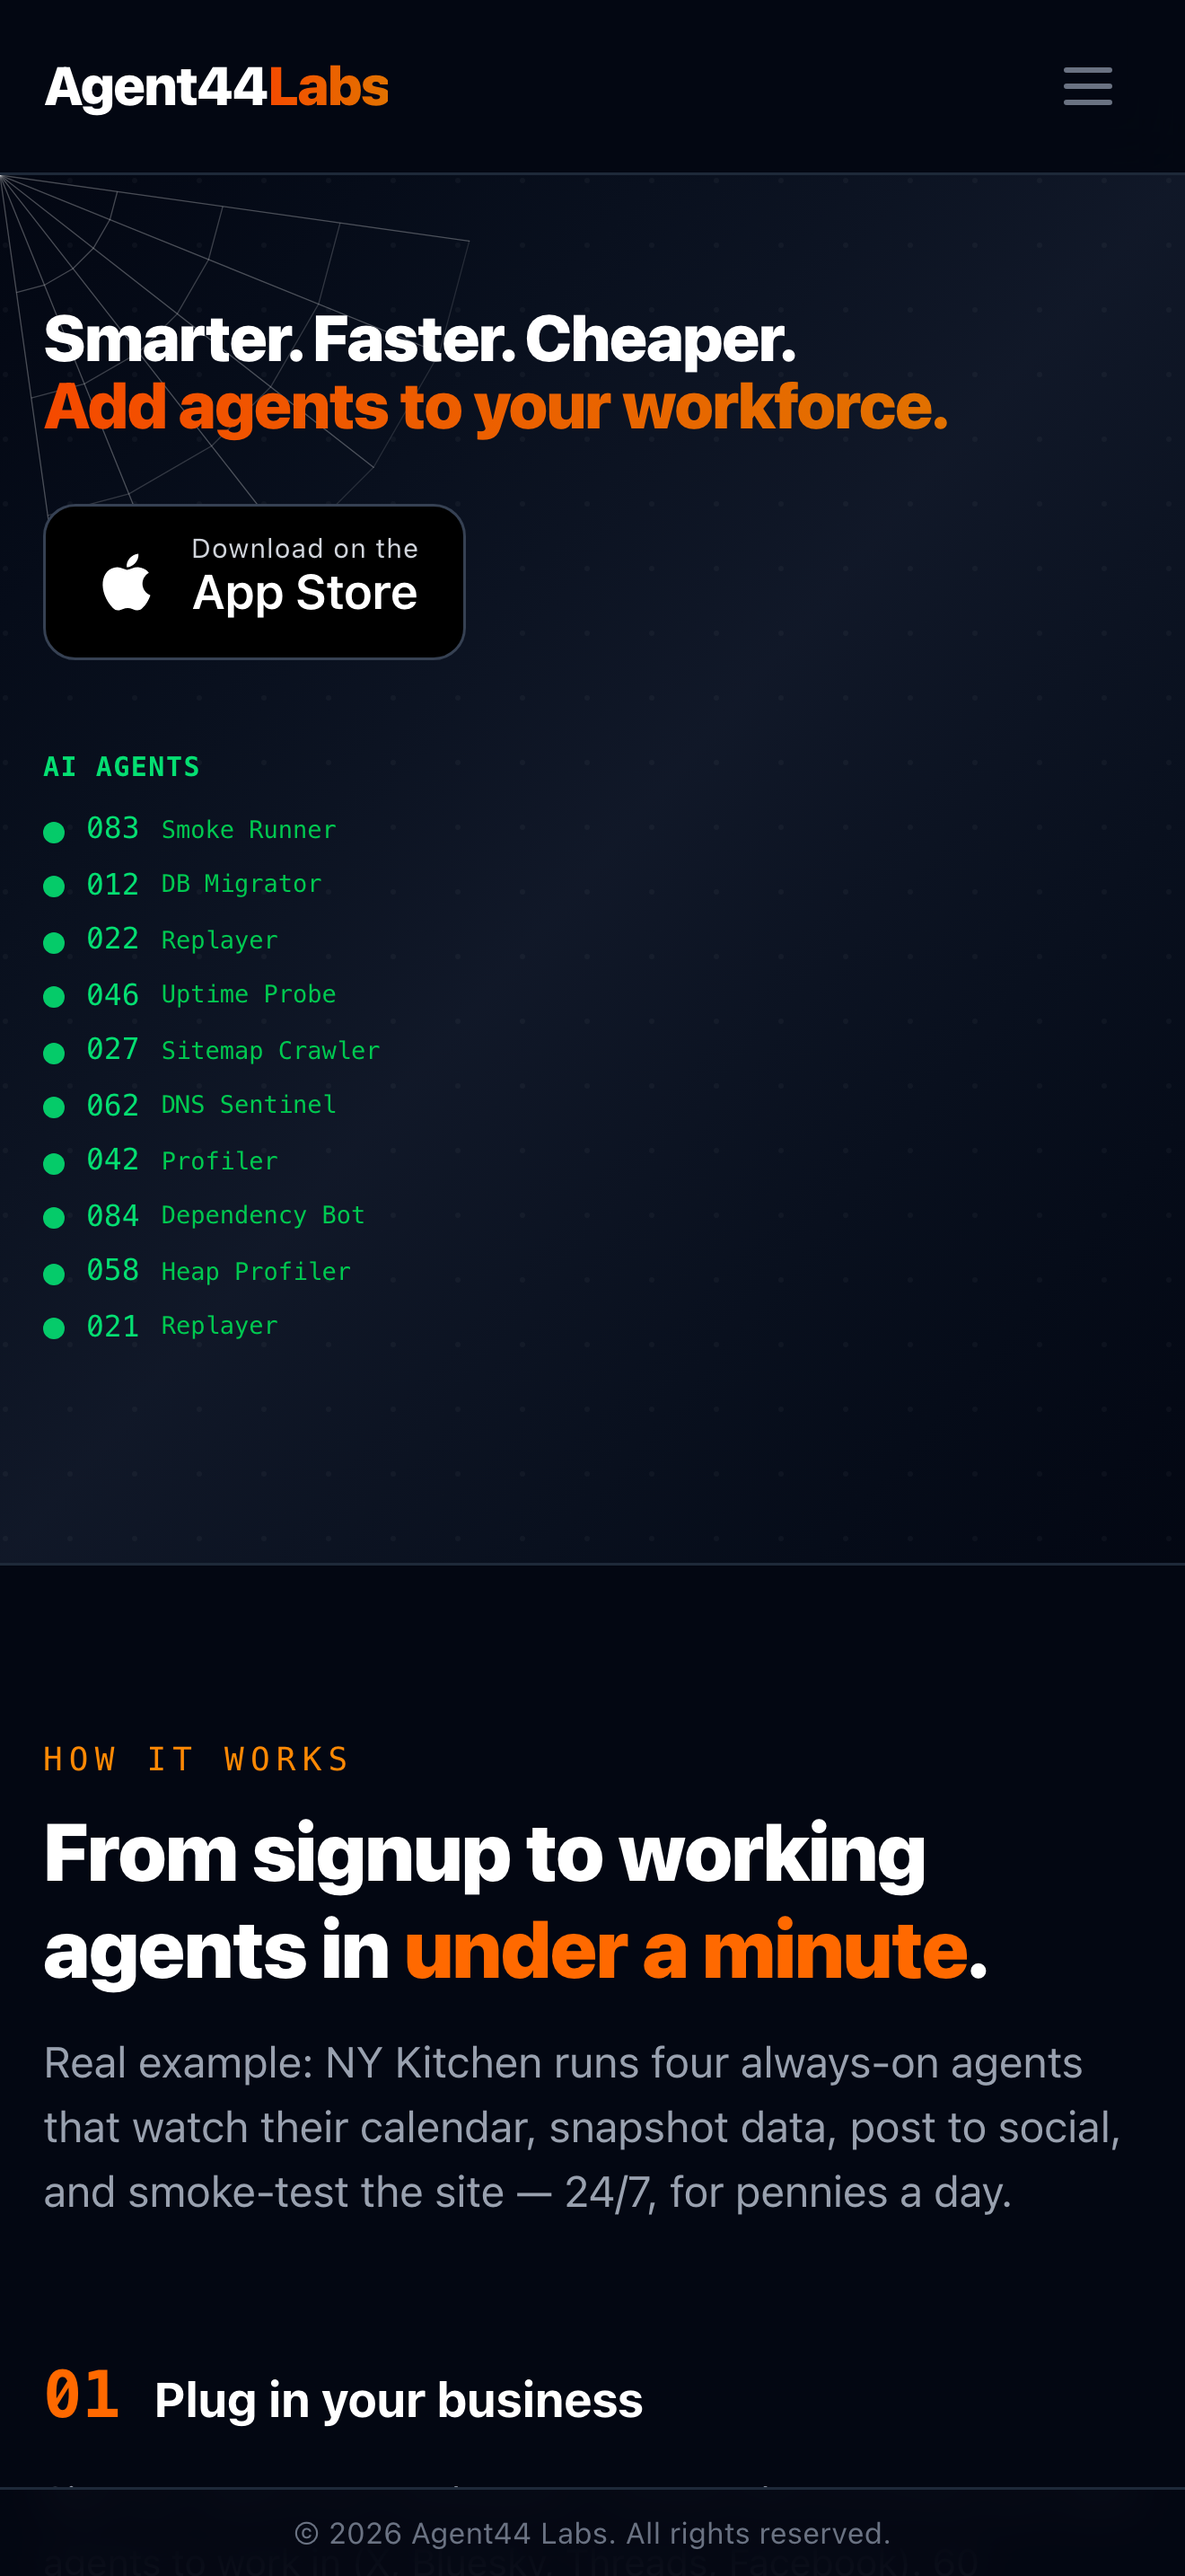
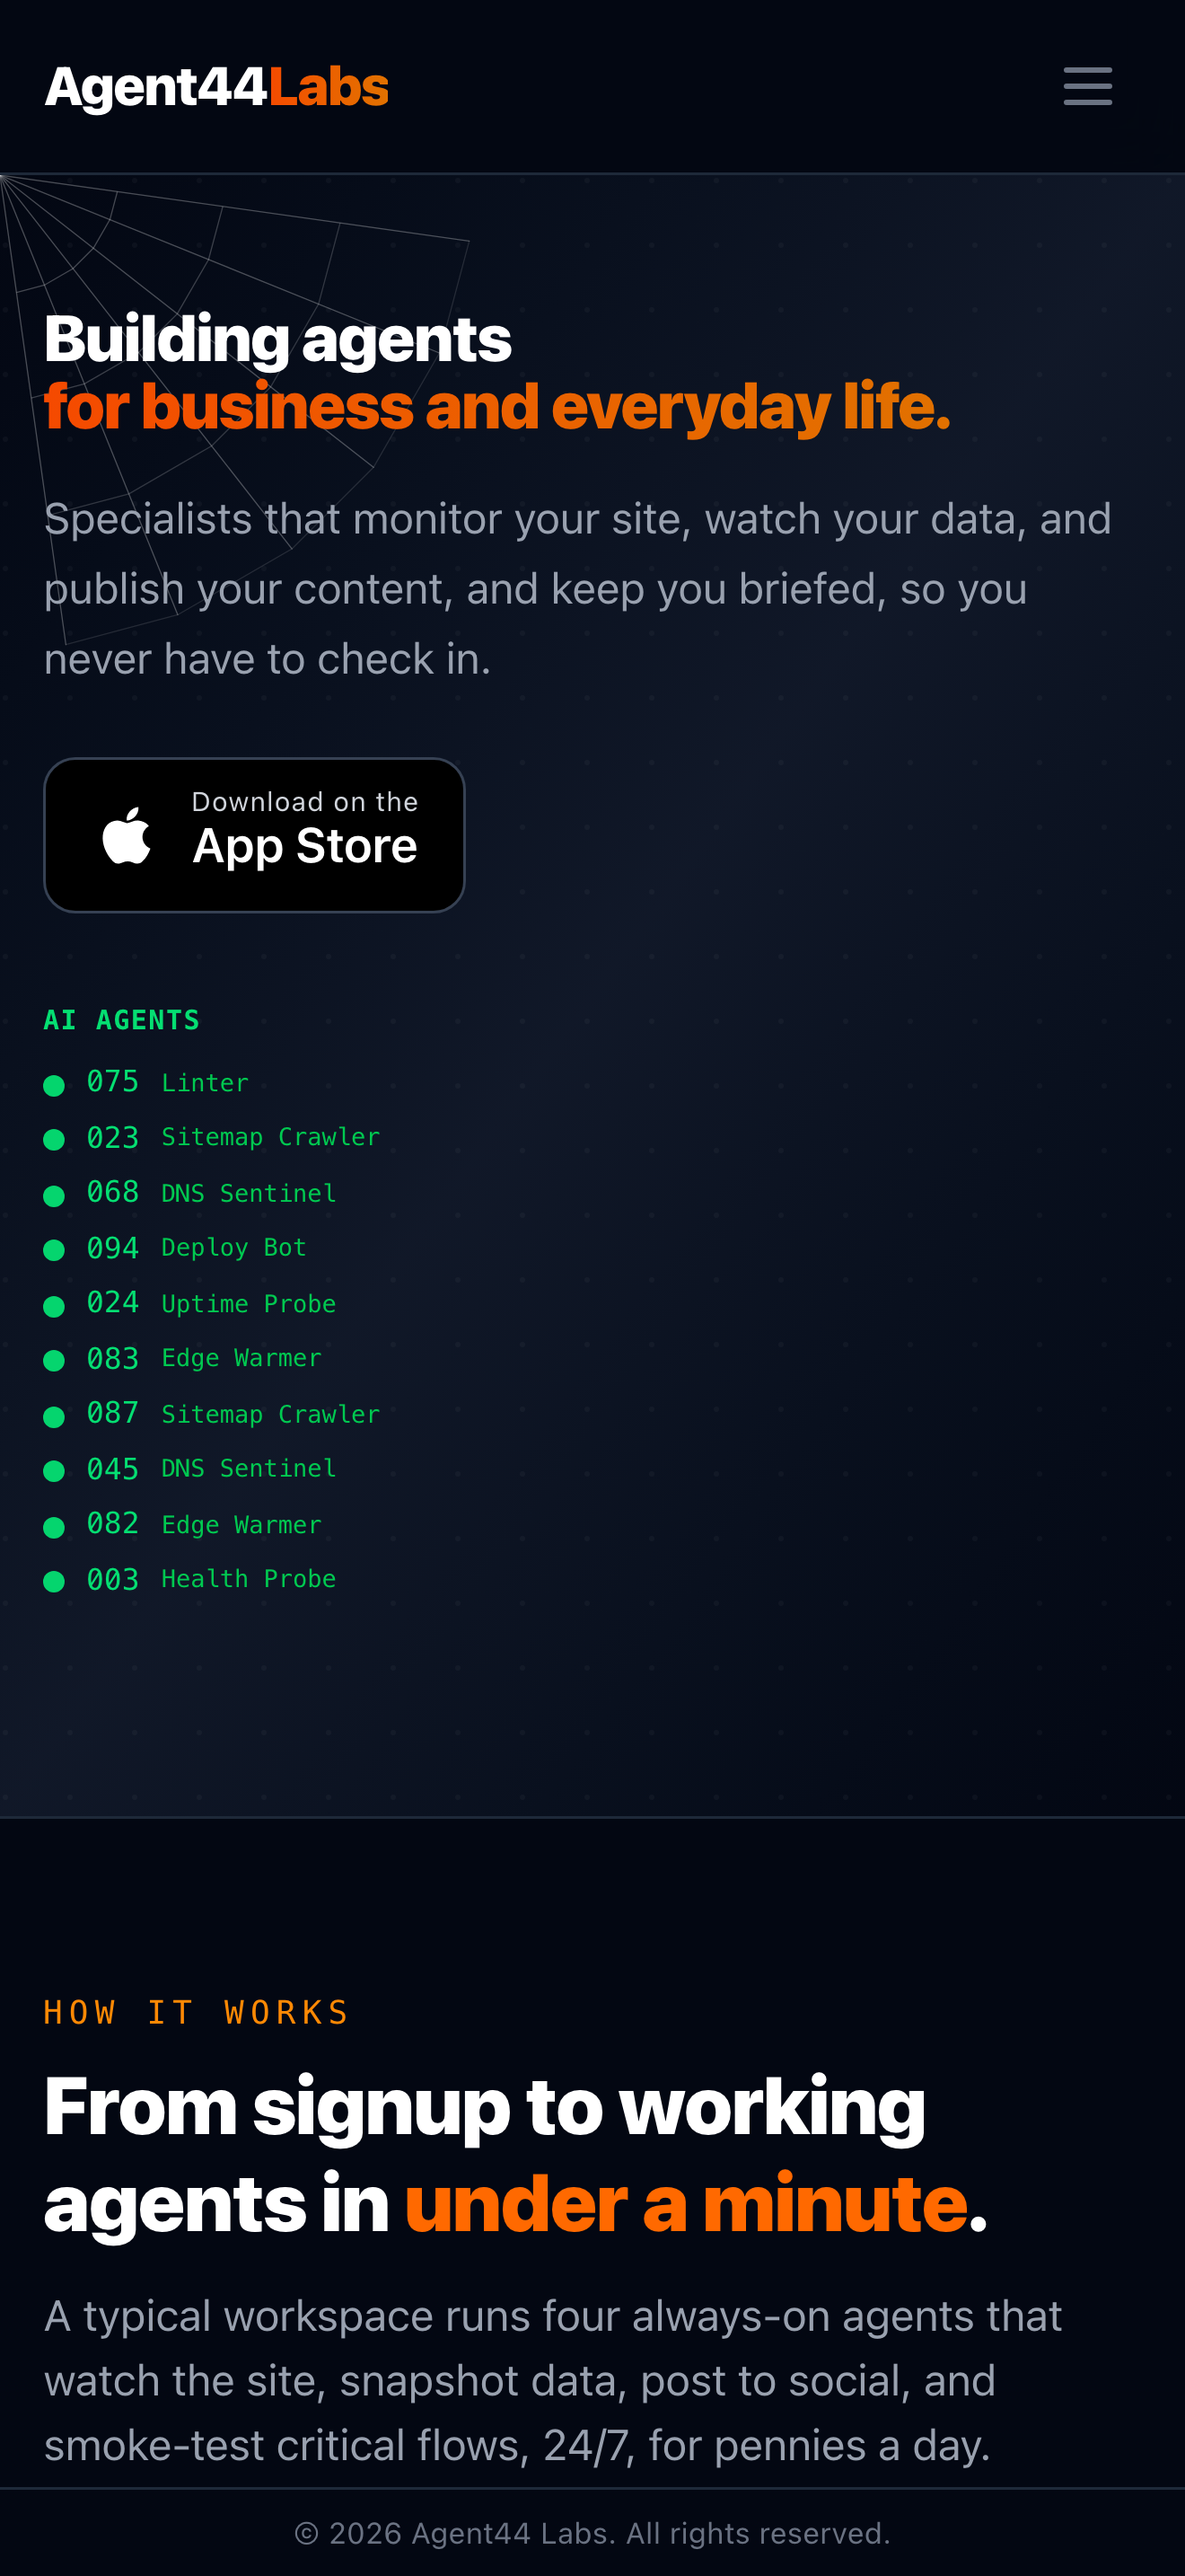
Site: new mission line, and pull customer data off the marketing page (#525)
* Site: new mission line, and pull customer data off the marketing page

Hero and meta description now read "Building agents for business and
everyday life", replacing "Smarter. Faster. Cheaper. / Add agents to your
workforce." and a meta description that still described the product as
smoke tests only (and carried an em dash).

The "How it works" screenshots were real NY Kitchen data: a workspace hub
showing tickets sold today and pace against target, and a List Agent screen
with her class names, sold-out status and per-class sales pace. Both are gone.
"See a live workspace" pointed anonymous visitors at /nykitchen, so it now
points at registration and reads "Start your workspace".

Also dropped two long-dead `if false` blocks (the NY Kitchen smoke-run card
and the "Who we watch" case study, which still held a placeholder for Lora's
quote), and recaptured iphone-home.png, which was stale enough to show the old
hero.

With two of three phones removed the step grid was lopsided, so the three
steps are text-only with one centered device shot above the CTA. Step 3 no
longer claims "Real numbers from a live workspace, not mockups" now that no
screenshot backs it.

* Delete the unreferenced NY Kitchen screenshots

Removing the image_tags left the files in app/assets/images/marketing, where
the asset pipeline still fingerprints and serves them, so her sales data stayed
fetchable by URL. Nothing references them now.

* Update the hero tests to the new mission line
[…]

Changed region(s): [[0.0311, 0.1241, 0.9318, 0.6206], [0.0311, 0.6827, 0.9318, 0.962], [0.5591, 0.2172, 0.5902, 0.2483]]

diff --git a/test/integration/home_access_test.rb b/test/integration/home_access_test.rb
@@ -27,12 +27,13 @@ class HomeAccessTest < ActionDispatch::IntegrationTest
     assert_response :success
   end
 
-  test "hero headline uses the three-word tagline order" do
+  test "hero headline carries the mission line" do
     get "/"
-    assert_select "h1", text: /Smarter\. Faster\. Cheaper\./
+    assert_select "h1", text: /Building agents/
+    assert_select "h1 span", text: /for business and everyday life\./
   end
 
-  test "hero headline keeps Smarter white" do
+  test "hero headline keeps the first line white" do
     get "/"
     assert_select "h1.text-white"
     assert_select "h1 span.text-purple-400", false
